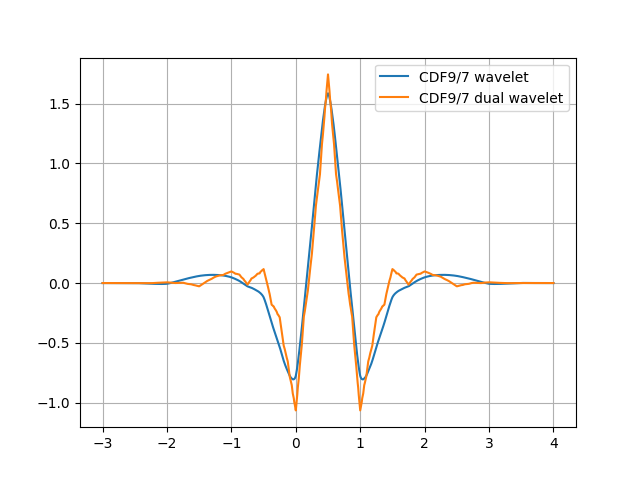
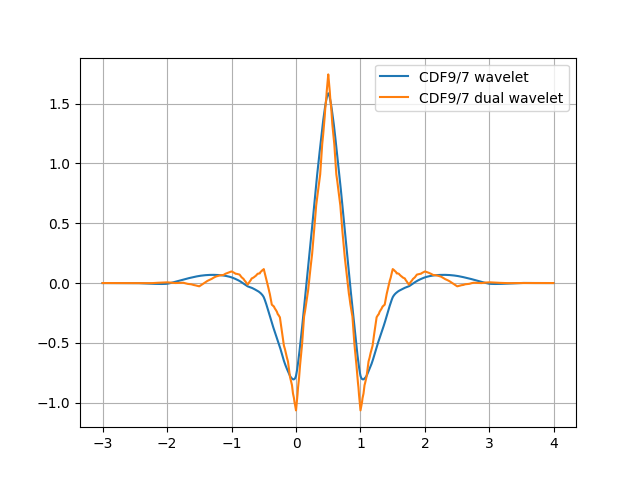
update

diff --git a/test.py b/test.py
@@ -8,23 +8,23 @@ import matplotlib.pyplot as plt
 mpmath.mp.prec = 256
 
 #
-def cascade_wavelet(phi, g, J=7):
+def cascade_wavelet(phi, g, J):
     div = 2**J
     sqrt2 = np.sqrt(2)
 
-    x = np.linspace(-3, 4, div*7+1)
-    psi = np.zeros(div*7+1)
+    x = np.linspace(-3, 4, num=div*7, endpoint=False)
+    psi = np.zeros(div*7)
     for k, gk in enumerate(g):
         for i in range(len(psi)):
             if 0 <= 2*i-div*k < len(phi):
                 psi[i] += sqrt2*gk*phi[2*i-div*k]
     return x, psi
 #
-def cascade(h, g):
-    phi_x, phi, _ = scipy.signal.cascade(h)
+def dual_cascade(h, g, J=7):
+    phi_x, phi_y, _ = scipy.signal.cascade(h, J=J)
     phi_x -= (len(h)-1)//2
-    psi_x, psi = cascade_wavelet(phi, g)
-    return phi_x, phi, psi_x, psi
+    psi_x, psi_y = cascade_wavelet(phi_y, g, J=J)
+    return phi_x, phi_y, psi_x, psi_y
 
 def cdf_9_7():
     # 多項式を作成する q(y) = 20y^3 + 10*y^2 + 4*y + 1
@@ -45,7 +45,7 @@ def cdf_9_7():
     hz = (sympy.sympify('z**(-2)*((z+1)/2)**4')*h0z).expand()
 
     # scaling係数を取得
-    scaling_coeff = [hz.coeff('z',k) for k in [-3,-2,-1,0,1,2,3]]
+    scaling_coeff = [hz.coeff('z',k) for k in range(-3,3+1)]
 
     # 共役複素数解からなる因子を使用して多項式を作成
     d_h0z = sympy.sympify('sqrt(2.0)*(y-y1)/y1*(y-y2)/y2') \
@@ -55,55 +55,45 @@ def cdf_9_7():
     d_hz = (sympy.sympify('z**(-2)*((z+1)/2)**4')*d_h0z).expand()
 
     # dual scaling係数を取得
-    d_scaling_coeff = [sympy.re(d_hz.coeff('z',k)) for k in [-4,-3,-2,-1,0,1,2,3,4]]
+    d_scaling_coeff = [sympy.re(d_hz.coeff('z',k)) for k in range(-4,5)]
 
     # wavelet係数を取得
-    wavelet_coeff = [s*(-1)**k for k,s in zip([-4,-3,-2,-1,0,1,2,3,4], d_scaling_coeff)]
+    wavelet_coeff = [s*(-1)**k for k,s in zip(range(-4,4+1), d_scaling_coeff)]
 
     # dual wavelet係数を取得
-    d_wavelet_coeff = [s*(-1)**k for k,s in zip([-3,-2,-1,0,1,2,3], scaling_coeff) ]
+    d_wavelet_coeff = [s*(-1)**k for k,s in zip(range(-3,3+1), scaling_coeff) ]
 
     return scaling_coeff, d_scaling_coeff, wavelet_coeff, d_wavelet_coeff
 
 def main():
     scaling, d_scaling, wavelet_coeff, d_wavelet_coeff= cdf_9_7()
 
-    f = open('cdf_9_7_scaling_coefficients.txt', 'w')
-    print('CDF 9/7 scaling coefficients')
-    f.write('# CDF 9/7 scaling coefficients\n')
+    lines = []
+    lines.append('# CDF 9/7 scaling coefficients\n')
     for i, h in enumerate(scaling):
-        mpmath.nprint(h, 40)
-        f.write(mpmath.nstr(h, 40) + '\n')
-    f.close()
+        lines.append(f'{mpmath.nstr(h, 40, min_fixed=0)}\n')
+    with open('cdf_9_7_scaling_coefficients.txt', 'w') as f:
+        f.writelines(lines)
 
-    f = open('cdf_9_7_dual_scaling_coefficients.txt', 'w')
-    print('\nCDF 9/7 dual scaling coefficients')
-    f.write('# CDF 9/7 dual scaling coefficients\n')
+    lines = []
+    lines.append('# CDF 9/7 dual scaling coefficients\n')
     for i, h in enumerate(d_scaling):
-        mpmath.nprint(h, 40)
-        f.write(mpmath.nstr(h, 40) + '\n')
-    f.close()
+        lines.append(f'{mpmath.nstr(h, 40, min_fixed=0)}\n')
+    with open('cdf_9_7_dual_scaling_coefficients.txt', 'w') as f:
+        f.writelines(lines)
 
-    print('\nCDF 9/7 wavelet coefficients')
-    for i, h in enumerate(wavelet_coeff):
-        mpmath.nprint(h, 40)
+    phi1_x, phi1_y, psi1_x, psi1_y = dual_cascade(scaling, wavelet_coeff)
+    phi2_x, phi2_y, psi2_x, psi2_y = dual_cascade(d_scaling, d_wavelet_coeff)
 
-    print('\nCDF 9/7 dual wavelet coefficients')
-    for i, h in enumerate(d_wavelet_coeff):
-        mpmath.nprint(h, 40)
-
-    phi1_x, phi1, psi1_x, psi1 = cascade(scaling, wavelet_coeff)
-    phi2_x, phi2, psi2_x, psi2 = cascade(d_scaling, d_wavelet_coeff)
-
-    plt.plot(phi1_x, phi1)
-    plt.plot(phi2_x, phi2)
+    plt.plot(phi1_x, phi1_y)
+    plt.plot(phi2_x, phi2_y)
     plt.grid()
     plt.legend(['CDF9/7 scaling', 'CDF9/7 dual scaling'])
     plt.savefig('cdf_9_7_scaling.png')
     plt.clf()
 
-    plt.plot(psi1_x, psi1)
-    plt.plot(psi2_x, psi2)
+    plt.plot(psi1_x, psi1_y)
+    plt.plot(psi2_x, psi2_y)
     plt.grid()
     plt.legend(['CDF9/7 wavelet', 'CDF9/7 dual wavelet'])
     plt.savefig('cdf_9_7_wavelet.png')
